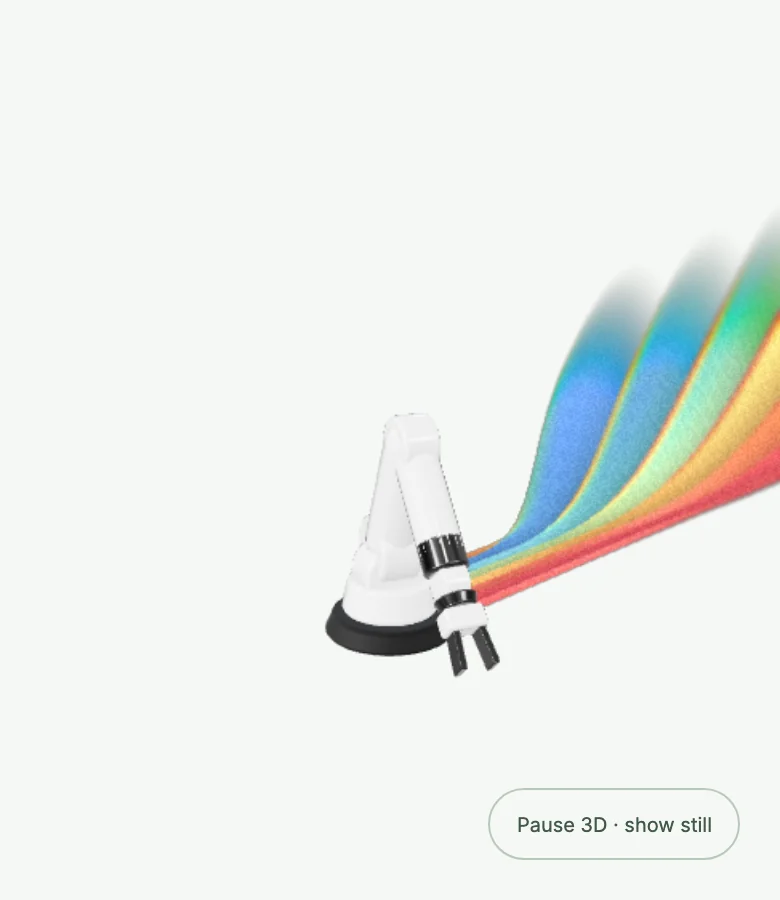
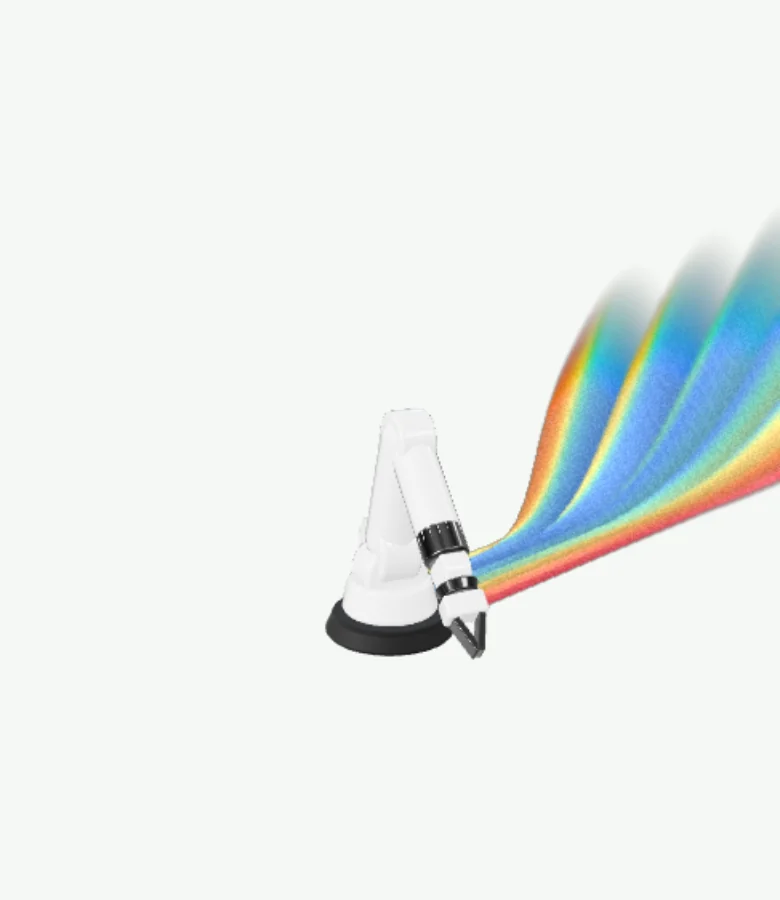
Fix mobile robot preview and optimize font loading

Changed region(s): [[0.5231, 0.28, 1.0, 0.7467], [0.8, 0.9022, 0.9231, 0.9333], [0.6462, 0.9022, 0.7692, 0.9333]]

diff --git a/src/physical-ai.css b/src/physical-ai.css
@@ -1,7 +1,7 @@
-.physical-page{--ink:#1b0624;--paper:#f7f7f5;--muted:#766a7c;--night:#171721;--card:#1e1e2a;--accent:#00b3a4;background:var(--paper);color:var(--ink);font-family:Inter,Arial,sans-serif;overflow:hidden}.physical-page *{box-sizing:border-box}.physical-page a{color:inherit;text-decoration:none}.eyebrow,.hero-bottom,.sense-row,.industry-row>span,.image-label,.system-visual small,.people-note>span,.market-grid small,.market-grid footer,.market-note{font-family:'DM Mono',monospace;font-size:10px;letter-spacing:.1em}.eyebrow{display:block;color:#766a7c}.eyebrow.light{color:#b9c4cf}.ph-nav{position:absolute;z-index:5;top:0;left:0;width:100%;height:78px;padding:0 6vw;display:flex;align-items:center;justify-content:space-between;color:white}.ph-nav img{width:100px;filter:brightness(0) invert(1)}.ph-nav nav{display:flex;gap:32px;font-size:12px;color:#e4e8ed}.ph-nav nav a:hover,.text-link:hover{color:var(--accent)}.pill{display:inline-flex;align-items:center;gap:12px;border-radius:999px;padding:13px 19px;font-size:12px;font-weight:600}.dark-pill{background:#160f0c;color:#fff!important}.bright-pill{background:var(--accent);color:#071c1e!important}.mobile-menu{display:none;color:white;background:none;border:0}.hero{height:100svh;min-height:660px;position:relative;background:#141b23;color:white;overflow:hidden}.hero-art{position:absolute;inset:-4%;background:url('/img/physical-ai-hero.png') center 48%/cover no-repeat;transform-origin:center}.hero-shade{position:absolute;inset:0;background:linear-gradient(90deg,rgba(10,15,22,.84),rgba(10,15,22,.25) 60%,rgba(10,15,22,.15)),linear-gradient(0deg,rgba(10,15,22,.58),transparent 30%)}.hero-copy{position:absolute;left:10%;top:29%;max-width:720px}.hero-copy h1,.physical-page h2{font-size:clamp(54px,7.5vw,108px);line-height:.96;letter-spacing:-.065em;font-weight:500;margin:22px 0}.hero-copy h1 em,.physical-page h2 em{font-style:normal;color:var(--accent)}.hero-copy p{font-size:17px;line-height:1.6;color:#e0e5e9;margin:0 0 28px}.hero-bottom{position:absolute;bottom:28px;left:6vw;right:6vw;display:flex;justify-content:space-between;color:#d5dce1}.hero-bottom a{display:flex;gap:8px;align-items:center}.thesis,.products,.industries,.people{padding:130px 10vw}.thesis{text-align:center}.thesis h2,.section-heading h2,.people h2{font-size:clamp(44px,6vw,78px);line-height:1;letter-spacing:-.06em;font-weight:500;margin:22px 0}.thesis h2 em,.section-heading h2 em,.people h2 em{color:#00a697;font-style:normal}.thesis>p,.section-heading>p,.people>div>p{color:#5e5662;line-height:1.7;max-width:480px;margin:20px auto}.sense-row{display:flex;align-items:center;justify-content:center;gap:22px;margin:64px auto 0;color:#7b7680}.sense-row b{color:var(--ink);font-weight:500;margin-left:7px}.sense-row i{height:1px;width:5vw;background:#d9d6d6}.dark-section{background:var(--night);color:#ededf3}.system{min-height:690px;padding:100px 10vw;display:grid;grid-template-columns:.85fr 1.15fr;align-items:center;gap:8vw}.system-copy h2,.open-copy h2,.hub-copy h2,.closing h2{font-size:clamp(58px,7vw,96px);line-height:.94;letter-spacing:-.065em;font-weight:500;margin:25px 0}.system-copy p,.open-copy p,.hub-copy p{max-width:340px;color:#c3c3cc;line-height:1.7;margin-bottom:28px}.text-link{display:inline-flex;gap:12px;align-items:center;font-size:13px;font-weight:600}.light-link{color:#eef4f8!important}.system-visual{height:470px;position:relative;border:1px solid #343442;overflow:hidden;background:radial-gradient(ellipse at 50% 50%,#243740 0,transparent 58%)}.system-grid{position:absolute;inset:0;background-image:linear-gradient(#ffffff0b 1px,transparent 1px),linear-gradient(90deg,#ffffff0b 1px,transparent 1px);background-size:44px 44px;mask-image:linear-gradient(transparent,#000 20%,#000 80%,transparent)}.system-orb{position:absolute;top:50%;left:50%;transform:translate(-50%,-50%);height:180px;width:180px;border:1px solid #00b3a477;border-radius:50%;display:grid;place-items:center;box-shadow:0 0 90px #00b3a41b,inset 0 0 50px #00b3a41a;color:#9ce4dd;text-align:center;font-family:'DM Mono';font-size:12px;letter-spacing:.12em}.system-orb:before,.system-orb:after{content:'';position:absolute;inset:18px;border:1px solid #a7eeea33;border-radius:50%}.system-orb:after{inset:-28px;border-style:dashed}.system-node{position:absolute;color:#82949a;font:10px 'DM Mono';letter-spacing:.12em}.system-node b{color:#edf5f4;margin-left:8px}.node-a{top:22%;left:13%}.node-b{top:70%;left:16%}.node-c{top:50%;right:10%}.scan-line{position:absolute;width:1px;top:8%;bottom:8%;left:8%;background:linear-gradient(transparent,#00e3ce,transparent);box-shadow:0 0 10px #00b3a4}.system-visual small{position:absolute;bottom:15px;left:16px;color:#76838c}.section-heading{margin-bottom:65px}.section-heading>p{margin:18px 0}.product-list{border-top:1px solid #d8d5d7}.product-card{display:grid;grid-template-columns:.8fr 1.2fr;gap:7vw;padding:42px 0;border-bottom:1px solid #d8d5d7;align-items:center}.product-copy h3{font-size:clamp(25px,3vw,40px);letter-spacing:-.04em;font-weight:500;margin:24px 0 10px}.product-copy p{color:#625b65;line-height:1.6;margin:0 0 22px}.product-visual{height:300px;border-radius:20px;overflow:hidden;position:relative;background:#dededc}.product-image{width:100%;height:100%;object-fit:cover}.image-label{position:absolute;bottom:14px;left:16px;color:white;text-shadow:0 1px 8px #000}.open-source{background:#20202c;color:#ededf3;padding:120px 10vw;display:grid;grid-template-columns:.8fr 1.2fr;gap:8vw;align-items:center}.open-copy small,.hub-copy small{display:block;color:#9da0ab;font-size:10px;line-height:1.5;margin-top:16px;max-width:300px}.open-art{position:relative;min-height:400px;background:#272735;display:grid;place-items:center;overflow:hidden}.open-art img{width:80%;height:330px;object-fit:contain;mix-blend-mode:screen}.code-stamp{position:absolute;right:18px;bottom:16px;border:1px solid #c2c2ce;padding:8px 12px;color:#bfc1cb;font:10px 'DM Mono';line-height:1.4}.industries{display:grid;grid-template-columns:1fr 1fr;gap:10vw}.industry-row{display:flex;align-items:center;border-bottom:1px solid #d8d5d7;padding:18px 0;gap:18px}.industry-row h3{font-weight:500;font-size:16px;flex:1}.industry-row>span{color:#8d8690}.market-grid{display:grid;grid-template-columns:repeat(3,1fr);gap:16px;margin-top:52px}.market-grid article{background:var(--card);padding:28px;min-height:260px;display:flex;flex-direction:column}.market-grid strong{font-size:40px;letter-spacing:-.06em;margin:32px 0 0}.market-grid small{color:#9ea0ac}.market-grid article>div{display:flex;align-items:baseline;justify-content:space-between;border-top:1px solid #ffffff21;margin-top:22px;padding-top:16px}.market-grid article>div b{font-size:22px}.market-grid article>div span{font-size:10px;color:#b7b8c2}.market-grid footer{color:#8d96a3;margin-top:auto;padding-top:15px}.market-note{color:#a4a5ad;line-height:1.7;margin:20px 0 0;font-size:9px}.people{display:grid;grid-template-columns:1fr .8fr;align-items:center;gap:10vw}.people>div>p{margin-left:0}.people-note{padding:28px;border:1px solid #d8d5d7;border-radius:18px}.people-note>span{color:#827987}.people-note h3{font-size:24px;line-height:1.45;font-weight:500;letter-spacing:-.04em}.people-note p{font-size:12px;line-height:1.6;color:#6b626d}.hub{position:relative;min-height:600px;background:#1c2530;color:white;overflow:hidden}.hub-image{position:absolute;inset:0;background:linear-gradient(90deg,#141821 0%,#141821bf 45%,transparent),url('/img/ArenaHalle_Netzwerk.webp') center/cover}.hub-copy{position:relative;padding:120px 10vw}.hub-copy p{max-width:350px}.closing{background:#13131c;color:#ededf3;padding:110px 10vw 24px}.closing h2{margin:22px 0 30px}.closing footer{margin-top:100px;border-top:1px solid #ffffff26;padding-top:20px;display:flex;align-items:center;gap:26px;color:#aaabb5;font-size:10px}.closing footer img{width:88px;filter:brightness(0) invert(1)}.closing footer span:first-of-type{margin-right:auto}.closing footer a{color:#d1d1d7}
+.physical-page{--ink:#1b0624;--paper:#f7f7f5;--muted:#766a7c;--night:#171721;--card:#1e1e2a;--accent:#00b3a4;background:var(--paper);color:var(--ink);font-family:Inter,Arial,sans-serif;overflow:hidden}.physical-page *{box-sizing:border-box}.physical-page a{color:inherit;text-decoration:none}.eyebrow,.hero-bottom,.sense-row,.industry-row>span,.image-label,.system-visual small,.people-note>span,.market-grid small,.market-grid footer,.market-note{font-family:'JetBrains Mono',monospace;font-size:10px;letter-spacing:.1em}.eyebrow{display:block;color:#766a7c}.eyebrow.light{color:#b9c4cf}.ph-nav{position:absolute;z-index:5;top:0;left:0;width:100%;height:78px;padding:0 6vw;display:flex;align-items:center;justify-content:space-between;color:white}.ph-nav img{width:100px;filter:brightness(0) invert(1)}.ph-nav nav{display:flex;gap:32px;font-size:12px;color:#e4e8ed}.ph-nav nav a:hover,.text-link:hover{color:var(--accent)}.pill{display:inline-flex;align-items:center;gap:12px;border-radius:999px;padding:13px 19px;font-size:12px;font-weight:600}.dark-pill{background:#160f0c;color:#fff!important}.bright-pill{background:var(--accent);color:#071c1e!important}.mobile-menu{display:none;color:white;background:none;border:0}.hero{height:100svh;min-height:660px;position:relative;background:#141b23;color:white;overflow:hidden}.hero-art{position:absolute;inset:-4%;background:url('/img/physical-ai-hero.png') center 48%/cover no-repeat;transform-origin:center}.hero-shade{position:absolute;inset:0;background:linear-gradient(90deg,rgba(10,15,22,.84),rgba(10,15,22,.25) 60%,rgba(10,15,22,.15)),linear-gradient(0deg,rgba(10,15,22,.58),transparent 30%)}.hero-copy{position:absolute;left:10%;top:29%;max-width:720px}.hero-copy h1,.physical-page h2{font-size:clamp(54px,7.5vw,108px);line-height:.96;letter-spacing:-.065em;font-weight:500;margin:22px 0}.hero-copy h1 em,.physical-page h2 em{font-style:normal;color:var(--accent)}.hero-copy p{font-size:17px;line-height:1.6;color:#e0e5e9;margin:0 0 28px}.hero-bottom{position:absolute;bottom:28px;left:6vw;right:6vw;display:flex;justify-content:space-between;color:#d5dce1}.hero-bottom a{display:flex;gap:8px;align-items:center}.thesis,.products,.industries,.people{padding:130px 10vw}.thesis{text-align:center}.thesis h2,.section-heading h2,.people h2{font-size:clamp(44px,6vw,78px);line-height:1;letter-spacing:-.06em;font-weight:500;margin:22px 0}.thesis h2 em,.section-heading h2 em,.people h2 em{color:#00a697;font-style:normal}.thesis>p,.section-heading>p,.people>div>p{color:#5e5662;line-height:1.7;max-width:480px;margin:20px auto}.sense-row{display:flex;align-items:center;justify-content:center;gap:22px;margin:64px auto 0;color:#7b7680}.sense-row b{color:var(--ink);font-weight:500;margin-left:7px}.sense-row i{height:1px;width:5vw;background:#d9d6d6}.dark-section{background:var(--night);color:#ededf3}.system{min-height:690px;padding:100px 10vw;display:grid;grid-template-columns:.85fr 1.15fr;align-items:center;gap:8vw}.system-copy h2,.open-copy h2,.hub-copy h2,.closing h2{font-size:clamp(58px,7vw,96px);line-height:.94;letter-spacing:-.065em;font-weight:500;margin:25px 0}.system-copy p,.open-copy p,.hub-copy p{max-width:340px;color:#c3c3cc;line-height:1.7;margin-bottom:28px}.text-link{display:inline-flex;gap:12px;align-items:center;font-size:13px;font-weight:600}.light-link{color:#eef4f8!important}.system-visual{height:470px;position:relative;border:1px solid #343442;overflow:hidden;background:radial-gradient(ellipse at 50% 50%,#243740 0,transparent 58%)}.system-grid{position:absolute;inset:0;background-image:linear-gradient(#ffffff0b 1px,transparent 1px),linear-gradient(90deg,#ffffff0b 1px,transparent 1px);background-size:44px 44px;mask-image:linear-gradient(transparent,#000 20%,#000 80%,transparent)}.system-orb{position:absolute;top:50%;left:50%;transform:translate(-50%,-50%);height:180px;width:180px;border:1px solid #00b3a477;border-radius:50%;display:grid;place-items:center;box-shadow:0 0 90px #00b3a41b,inset 0 0 50px #00b3a41a;color:#9ce4dd;text-align:center;font-family:'JetBrains Mono';font-size:12px;letter-spacing:.12em}.system-orb:before,.system-orb:after{content:'';position:absolute;inset:18px;border:1px solid #a7eeea33;border-radius:50%}.system-orb:after{inset:-28px;border-style:dashed}.system-node{position:absolute;color:#82949a;font:10px 'JetBrains Mono';letter-spacing:.12em}.system-node b{color:#edf5f4;margin-left:8px}.node-a{top:22%;left:13%}.node-b{top:70%;left:16%}.node-c{top:50%;right:10%}.scan-line{position:absolute;width:1px;top:8%;bottom:8%;left:8%;background:linear-gradient(transparent,#00e3ce,transparent);box-shadow:0 0 10px #00b3a4}.system-visual small{position:absolute;bottom:15px;left:16px;color:#76838c}.section-heading{margin-bottom:65px}.section-heading>p{margin:18px 0}.product-list{border-top:1px solid #d8d5d7}.product-card{display:grid;grid-template-columns:.8fr 1.2fr;gap:7vw;padding:42px 0;border-bottom:1px solid #d8d5d7;align-items:center}.product-copy h3{font-size:clamp(25px,3vw,40px);letter-spacing:-.04em;font-weight:500;margin:24px 0 10px}.product-copy p{color:#625b65;line-height:1.6;margin:0 0 22px}.product-visual{height:300px;border-radius:20px;overflow:hidden;position:relative;background:#dededc}.product-image{width:100%;height:100%;object-fit:cover}.image-label{position:absolute;bottom:14px;left:16px;color:white;text-shadow:0 1px 8px #000}.open-source{background:#20202c;color:#ededf3;padding:120px 10vw;display:grid;grid-template-columns:.8fr 1.2fr;gap:8vw;align-items:center}.open-copy small,.hub-copy small{display:block;color:#9da0ab;font-size:10px;line-height:1.5;margin-top:16px;max-width:300px}.open-art{position:relative;min-height:400px;background:#272735;display:grid;place-items:center;overflow:hidden}.open-art img{width:80%;height:330px;object-fit:contain;mix-blend-mode:screen}.code-stamp{position:absolute;right:18px;bottom:16px;border:1px solid #c2c2ce;padding:8px 12px;color:#bfc1cb;font:10px 'JetBrains Mono';line-height:1.4}.industries{display:grid;grid-template-columns:1fr 1fr;gap:10vw}.industry-row{display:flex;align-items:center;border-bottom:1px solid #d8d5d7;padding:18px 0;gap:18px}.industry-row h3{font-weight:500;font-size:16px;flex:1}.industry-row>span{color:#8d8690}.market-grid{display:grid;grid-template-columns:repeat(3,1fr);gap:16px;margin-top:52px}.market-grid article{background:var(--card);padding:28px;min-height:260px;display:flex;flex-direction:column}.market-grid strong{font-size:40px;letter-spacing:-.06em;margin:32px 0 0}.market-grid small{color:#9ea0ac}.market-grid article>div{display:flex;align-items:baseline;justify-content:space-between;border-top:1px solid #ffffff21;margin-top:22px;padding-top:16px}.market-grid article>div b{font-size:22px}.market-grid article>div span{font-size:10px;color:#b7b8c2}.market-grid footer{color:#8d96a3;margin-top:auto;padding-top:15px}.market-note{color:#a4a5ad;line-height:1.7;margin:20px 0 0;font-size:9px}.people{display:grid;grid-template-columns:1fr .8fr;align-items:center;gap:10vw}.people>div>p{margin-left:0}.people-note{padding:28px;border:1px solid #d8d5d7;border-radius:18px}.people-note>span{color:#827987}.people-note h3{font-size:24px;line-height:1.45;font-weight:500;letter-spacing:-.04em}.people-note p{font-size:12px;line-height:1.6;color:#6b626d}.hub{position:relative;min-height:600px;background:#1c2530;color:white;overflow:hidden}.hub-image{position:absolute;inset:0;background:linear-gradient(90deg,#141821 0%,#141821bf 45%,transparent),url('/img/ArenaHalle_Netzwerk.webp') center/cover}.hub-copy{position:relative;padding:120px 10vw}.hub-copy p{max-width:350px}.closing{background:#13131c;color:#ededf3;padding:110px 10vw 24px}.closing h2{margin:22px 0 30px}.closing footer{margin-top:100px;border-top:1px solid #ffffff26;padding-top:20px;display:flex;align-items:center;gap:26px;color:#aaabb5;font-size:10px}.closing footer img{width:88px;filter:brightness(0) invert(1)}.closing footer span:first-of-type{margin-right:auto}.closing footer a{color:#d1d1d7}
 @media(max-width:760px){.ph-nav{height:68px;padding:0 22px}.ph-nav img{width:82px}.ph-nav nav,.ph-nav>.pill{display:none}.mobile-menu{display:block}.hero{min-height:700px}.hero-art{background-position:58% center}.hero-shade{background:linear-gradient(90deg,#10151ddd,#10151d50),linear-gradient(0deg,#10151dbb,transparent 40%)}.hero-copy{left:7%;right:7%;top:30%}.hero-copy h1{font-size:clamp(52px,13vw,82px)}.hero-copy p{font-size:15px}.hero-bottom{left:7%;right:7%;bottom:20px;font-size:8px}.hero-bottom span:last-child{display:none}.thesis,.products,.industries,.people{padding:84px 7%}.thesis h2,.section-heading h2,.people h2{font-size:clamp(43px,11vw,65px)}.sense-row{gap:8px;flex-wrap:wrap;font-size:8px;margin-top:45px}.sense-row i{width:12px}.system,.open-source,.industries,.people{grid-template-columns:1fr;padding:82px 7%;gap:45px}.system-visual{height:340px}.system-copy h2,.open-copy h2,.hub-copy h2,.closing h2{font-size:68px}.product-card{grid-template-columns:1fr;gap:24px;padding:32px 0}.product-visual{height:240px}.open-art{min-height:290px}.open-art img{height:250px}.market-grid{grid-template-columns:1fr}.market-grid article{min-height:230px}.hub{min-height:560px}.hub-image{background:linear-gradient(90deg,#141821e8,#14182165),url('/img/ArenaHalle_Netzwerk.webp') 62%/cover}.hub-copy,.closing{padding:86px 7% 24px}.closing footer{flex-wrap:wrap;margin-top:70px}.closing footer span:first-of-type{width:100%;margin:0}.industry-row h3{font-size:14px}}
 @media(prefers-reduced-motion:reduce){.physical-page *{scroll-behavior:auto!important}.hero-art,.product-image{transform:none!important}}
-.hero.has-3d .hero-art{background:radial-gradient(ellipse at 70% 62%,#20343c 0,#111b24 52%,#10151d 100%)}.robot-canvas{position:absolute;inset:0;z-index:1}.robot-canvas canvas{display:block;width:100%;height:100%;touch-action:pan-y}.hero-shade{z-index:2}.hero-copy{z-index:3}.robot-hint{position:absolute;z-index:3;right:6vw;bottom:30px;color:#d7e1e4;font:9px 'DM Mono',monospace;letter-spacing:.12em}.robot-hint span{color:#00b3a4;font-size:15px;margin-left:8px}@media(max-width:760px){.robot-canvas{left:10%;top:15%;width:90%;height:70%}.hero.has-3d .hero-art{background:radial-gradient(ellipse at 75% 56%,#20343c 0,#111b24 54%,#10151d 100%)}.robot-hint{right:7%;bottom:54px;font-size:8px}}
+.hero.has-3d .hero-art{background:radial-gradient(ellipse at 70% 62%,#20343c 0,#111b24 52%,#10151d 100%)}.robot-canvas{position:absolute;inset:0;z-index:1}.robot-canvas canvas{display:block;width:100%;height:100%;touch-action:pan-y}.hero-shade{z-index:2}.hero-copy{z-index:3}.robot-hint{position:absolute;z-index:3;right:6vw;bottom:30px;color:#d7e1e4;font:9px 'JetBrains Mono',monospace;letter-spacing:.12em}.robot-hint span{color:#00b3a4;font-size:15px;margin-left:8px}@media(max-width:760px){.robot-canvas{left:10%;top:15%;width:90%;height:70%}.hero.has-3d .hero-art{background:radial-gradient(ellipse at 75% 56%,#20343c 0,#111b24 54%,#10151d 100%)}.robot-hint{right:7%;bottom:54px;font-size:8px}}
 
 /* Rerun reference: centered type above the original interactive Three.js scene. */
 @font-face{font-family:JetBrains Mono;src:url('/fonts/JetBrainsMono-var.woff2') format('woff2');font-weight:100 800;font-display:swap}

diff --git a/src/components/AnimatedFooter.tsx b/src/components/AnimatedFooter.tsx
@@ -13,6 +13,14 @@ export default function AnimatedFooter() {
     const preference = matchMedia('(prefers-reduced-motion: reduce)');
     const setup = () => { dispose?.(); dispose = mountAsciiFooter(root.current!,canvas.current!); };
     setup(); preference.addEventListener('change',setup);
+    let alive = true;
+    const footer = root.current;
+    const fontObserver = new IntersectionObserver(([entry]) => {
+      if (!entry.isIntersecting) return;
+      fontObserver.disconnect();
+      document.fonts.load('24px "Hedvig Letters Serif"').then(() => { if (alive) footer.classList.add('font-ready'); }).catch(() => {});
+    }, { rootMargin: '300px' });
+    fontObserver.observe(footer);
     const media = gsap.matchMedia();
     media.add('(prefers-reduced-motion: no-preference)', () => {
       const ctx = gsap.context(() => {
@@ -20,7 +28,7 @@ export default function AnimatedFooter() {
       },root);
       return () => ctx.revert();
     });
-    return () => { dispose?.(); preference.removeEventListener('change',setup); media.revert(); };
+    return () => { alive = false; fontObserver.disconnect(); dispose?.(); preference.removeEventListener('change',setup); media.revert(); };
   },[]);
   return <footer ref={root} className="ascii-footer" id="contact" aria-label="Pradivya contact and navigation">
     <canvas ref={canvas} className="ascii-footer-canvas" aria-hidden="true"/>

diff --git a/src/components/animated-footer.css b/src/components/animated-footer.css
@@ -5,3 +5,5 @@
 @media(max-width:760px){.ascii-footer-brand{top:68px;left:7%;max-width:86%}.ascii-footer-brand>span{font-size:clamp(44px,13vw,70px)}.ascii-footer-brand>small{font-size:8px;margin-top:12px}}
 .ascii-footer-brand{top:35px}.ascii-footer-brand:hover{opacity:1}.ascii-footer-brand>.asc{width:360px;max-width:100%}.ascii-footer-brand>small{margin-top:8px}.ascii-footer-brand{max-width:calc(100% - 80px)}
 @media(max-width:760px){.ascii-footer-brand{top:24px;max-width:86%;width:245px}.ascii-footer-content{padding-top:245px}.ascii-footer-brand>small{margin-top:0}}
+
+.ascii-footer-invitation p{font-family:Georgia,serif}.ascii-footer.font-ready .ascii-footer-invitation p{font-family:'Hedvig Letters Serif',Georgia,serif}

diff --git a/index.html b/index.html
@@ -3,6 +3,8 @@
   <head>
     <meta charset="UTF-8" />
     <link rel="icon" type="image/webp" href="/img/pradivya-logo-small.webp" />
+    <link rel="preload" href="/fonts/Inter.woff2" as="font" type="font/woff2" crossorigin />
+    <link rel="preload" href="/fonts/JetBrainsMono-var.woff2" as="font" type="font/woff2" crossorigin />
     <meta name="viewport" content="width=device-width, initial-scale=1.0" />
     <link rel="preload" as="image" href="/img/robot-preview-mobile.webp" media="(max-width:760px)" fetchpriority="high" />
     <meta name="theme-color" content="#f6f8f5" />

diff --git a/playwright.config.ts b/playwright.config.ts
@@ -1,7 +1,7 @@
 import { defineConfig } from '@playwright/test';
 export default defineConfig({
   projects: [{name:'chromium',use:{browserName:'chromium'}},{name:'webkit',use:{browserName:'webkit'}}],
-  testDir: './tests', timeout: 60000, workers: 1,
+  testDir: './tests', timeout: 120000, workers: 1,
   use: { baseURL: 'http://127.0.0.1:5175', headless: true, trace: 'retain-on-failure' },
   webServer: { command: 'npm run preview -- --host 127.0.0.1 --port 5175 --strictPort', url: 'http://127.0.0.1:5175', reuseExistingServer: false },
 });

diff --git a/src/index.css b/src/index.css
@@ -1,5 +1,4 @@
 @font-face{font-family:Inter;src:url('/fonts/Inter.woff2') format('woff2');font-weight:100 900;font-style:normal;font-display:swap}
-@font-face{font-family:'DM Mono';src:url('/fonts/DMMono.woff2') format('woff2');font-weight:400;font-style:normal;font-display:swap}
 @font-face{font-family:'Hedvig Letters Serif';src:url('/fonts/HedvigLettersSerif.woff2') format('woff2');font-style:normal;font-weight:400;font-display:swap}
 
 @tailwind base;
